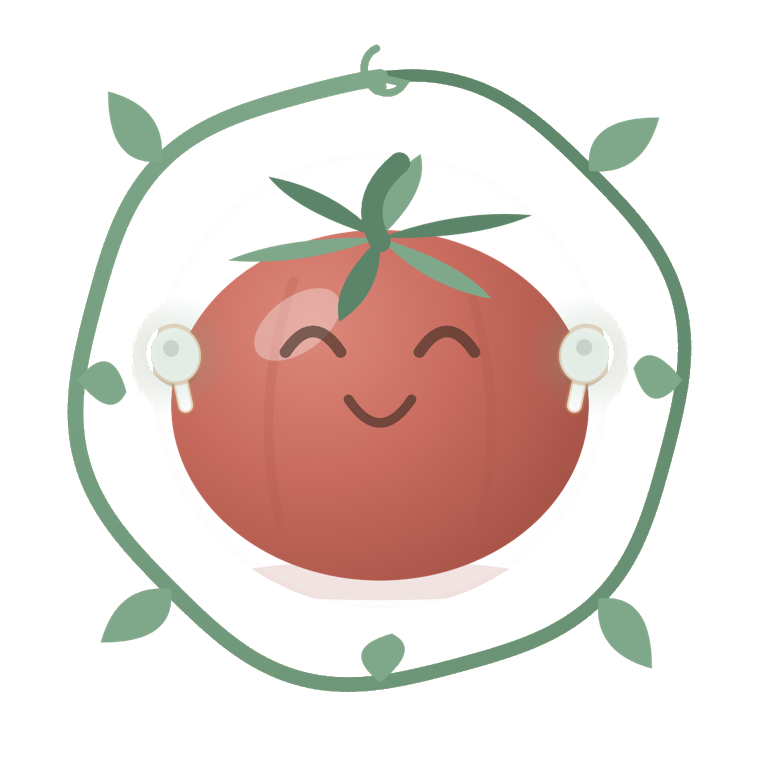
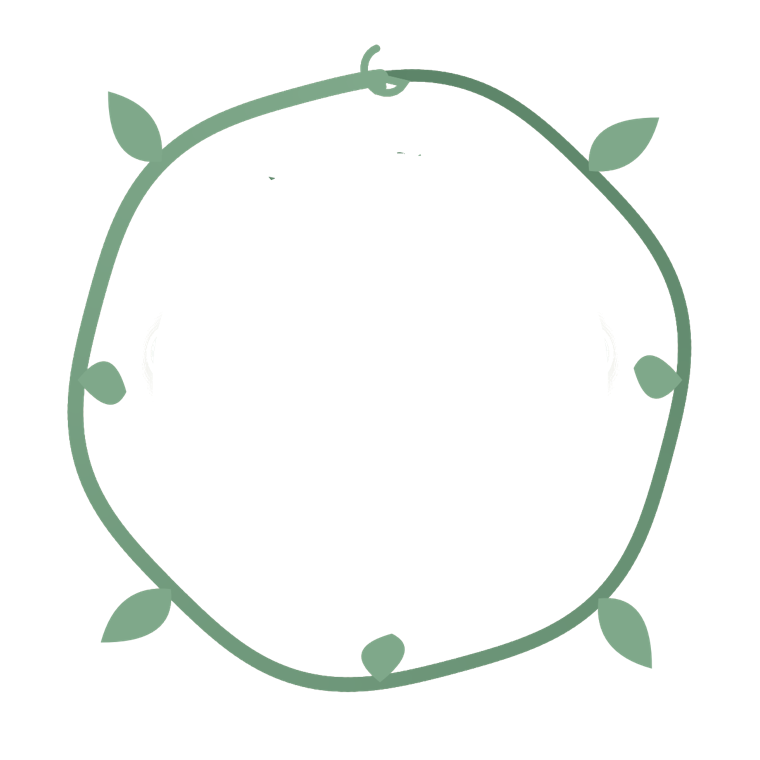
Clean hero art, and an empty ring at rest
Rendering at rest hides the app's halo (Tomato.swift:160) and leaves the empty
vine track, so the fruit now has no aura disc and no visible edges at all; the
awake face is composited in from the running render with the halo colour keyed
out. The vine's growth is measured from where the fruit actually starts, so the
ring begins genuinely empty instead of a few degrees in.

Changed region(s): [[0.1816, 0.1816, 0.8171, 0.7868]]

diff --git a/index.html b/index.html
@@ -306,11 +306,14 @@ footer a{color:#333}
   });
 
     // The vine grows as the hero scrolls away, and stays grown.
-  var grown = 0;
+  var grown = 0, origin = null;
   function growVine(){
     var wrap = document.getElementById('fruitwrap');
-    var r = wrap.getBoundingClientRect();
-    var travelled = (innerHeight * 0.62 - r.top) / (innerHeight * 0.95);
+    var top = wrap.getBoundingClientRect().top;
+    // Measure from where the fruit actually starts rather than from a guess at
+    // the viewport, so the ring is empty at rest however tall the window is.
+    if (origin === null) origin = top;
+    var travelled = (origin - top) / (innerHeight * 0.85);
     grown = Math.max(grown, Math.max(0, Math.min(1, travelled)));
     vine.style.setProperty('--grow', grown.toFixed(3) + 'turn');
   }
